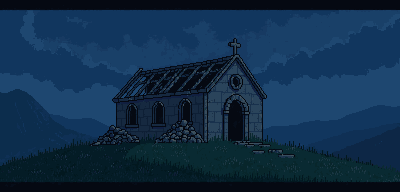
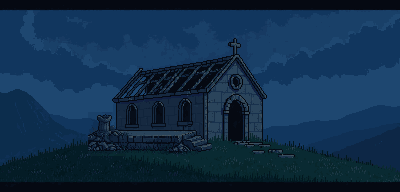
Ground the sphere and protagonist on a progressing altar
- Move the 2× Bênção plaque under the clickable Esfera in the Relicário and restore its pixel-art sphere
- Make the altar Esfera a decorative likeness of the god (no longer clickable)
- Show the follower count in the HUD; drop the protagonist label and the church heading, status and caption
- Repaint the church tiers (PixelLab inpaint) with a dais and an altar that grows each tier, and anchor the sphere and protagonist on them

Changed region(s): [[0.21, 0.5938, 0.54, 0.8125]]

diff --git a/src/styles/art-direction.css b/src/styles/art-direction.css
@@ -73,12 +73,11 @@
 .ascended-monastery { position:absolute; right:15%; top:16%; height:45%; width:auto; image-rendering:pixelated; filter:brightness(.65); z-index:1; }
 /* Church scene: the stage keeps the background's 400×192 grid, so overlays stay pinned to the art.
    Tall phones use the cover scale and are cropped sideways. On short or large windows the stage is smaller than the
-   cover: its scale is capped so that, below the HUD's bottom edge (`--hud-bottom`, measured by the church scene), both
-   (1) the art from y 12 (the tier-3 bell tower's top) down to the Bênção button under the altar (y 133 plus the button's
-   height `--btn-font` + 10px of border and padding, then a 44px footer margin) fits, and (2) the whole band down to
-   y 152 (the front of the yard, plus an 8px margin) fits. The scale never drops below 0.4px per art pixel, a safety net
-   for a world whose container height has not resolved. The backdrop fills the world around the stage. */
-.church-world { container-type:size; background:#1b2a3d; height:max(var(--world-h), var(--world-min)); min-height:0; --hud-bottom:0px; --btn-font:clamp(10px, 4.4cqh, 22px); --art-scale:max(0.4px, min(max(100cqw / 400, 100cqh / 192), calc((100cqh - var(--hud-bottom) - var(--btn-font) - 54px) / 121.4), calc((100cqh - var(--hud-bottom) - 8px) / 140))); --stage-top:max(calc(var(--hud-bottom) - 12 * var(--art-scale)), min(0px, calc(100cqh - 152 * var(--art-scale)))); }
+   cover: its scale is capped so that, below the HUD's bottom edge (`--hud-bottom`, measured by the church scene), the
+   art from y 12 (the tier-3 bell tower's top) down to y 152 (the front of the yard, plus an 8px margin) fits. The scale
+   never drops below 0.4px per art pixel, a safety net for a world whose container height has not resolved.
+   The backdrop fills the world around the stage. */
+.church-world { container-type:size; background:#1b2a3d; height:max(var(--world-h), var(--world-min)); min-height:0; --hud-bottom:0px; --art-scale:max(0.4px, min(max(100cqw / 400, 100cqh / 192), calc((100cqh - var(--hud-bottom) - 8px) / 140))); --stage-top:max(calc(var(--hud-bottom) - 12 * var(--art-scale)), min(0px, calc(100cqh - 152 * var(--art-scale)))); }
 /* Capped stages sit with y 12 at the HUD's bottom edge; uncapped ones (phones) are cropped sky first, so art down to y 152 stays visible. */
 /* The outer art columns (x 0 and 399) are near-white generation artifacts, so the stage is clipped by two art pixels (a fractional scale would otherwise show a sliver of them). */
 .church-stage { position:absolute; left:50%; top:var(--stage-top); width:calc(400 * var(--art-scale)); aspect-ratio:400 / 192; transform:translateX(-50%); clip-path:inset(0 calc(2 * var(--art-scale))); }
@@ -91,35 +90,36 @@
 .church-world[data-church-tier='2'] { --edge-left:linear-gradient(#090c1a 0.52%, #0d0e1e 0.52% 1.56%, #0c1523 1.56% 2.6%, #0d0e1e 2.6% 4.17%, #0c1523 4.17% 5.21%, #183254 5.21% 6.25%, #19365d 6.25% 7.29%, #183254 7.29% 34.38%, #19365d 34.38% 36.98%, #1e3c61 36.98% 47.92%, #183254 47.92% 71.35%, #18314f 71.35% 86.46%, #1b2f3b 86.46% 95.83%, #132c34 95.83%); --edge-right:linear-gradient(#090c1a 5.21%, #183254 5.21% 6.77%, #19365d 6.77% 10.42%, #183254 10.42% 14.06%, #18314f 14.06% 19.27%, #183254 19.27% 31.25%, #19365d 31.25% 32.81%, #1e3c61 32.81% 34.9%, #19365d 34.9% 36.98%, #183254 36.98% 44.27%, #19365d 44.27% 52.6%, #1e3c61 52.6% 55.21%, #19365d 55.21% 58.33%, #183254 58.33% 65.63%, #18314f 65.63% 73.44%, #1b2941 73.44% 89.06%, #1b2f3b 89.06% 92.71%, #132c34 92.71% 94.79%, #090c1a 94.79%); }
 .church-world[data-church-tier='3'] { --edge-left:linear-gradient(#0b0e1d 0.52%, #0f1d2b 0.52% 5.21%, #1c3252 5.21% 34.38%, #1d375c 34.38% 35.42%, #223d62 35.42% 42.71%, #1d375c 42.71% 45.31%, #223d62 45.31% 48.96%, #1d375c 48.96% 50%, #1c3252 50% 85.94%, #202b43 85.94%); --edge-right:linear-gradient(#0b0e1d 5.21%, #1c3252 5.21% 31.25%, #1d375c 31.25% 38.02%, #1c3252 38.02% 47.92%, #1d375c 47.92% 51.04%, #223d62 51.04% 54.69%, #1d375c 54.69% 59.38%, #1c3252 59.38% 73.44%, #202b43 73.44% 91.15%, #182c37 91.15% 94.79%, #0b0e1d 94.79%); }
 .church-background { position:absolute; inset:0; width:100%; height:100%; image-rendering:pixelated; pointer-events:none; }
-.church-sphere { position:absolute; aspect-ratio:1; padding:0; border:0; background:transparent; cursor:pointer; transform:translate(-50%,-50%); z-index:2; transition:filter 120ms var(--ease-out); }
+/* The altar's Esfera is the god's likeness, not a control: Fé is channelled through the Relicário's Esfera, and this one only glows back. */
+/* Each tier's background has its own altar on the sanctuary dais, so the Esfera's centre is set per tier to rest in that altar's
+   cradle: the drawn orb's bottom edge sits 10/32 of the box width below the centre (y 116 on the ruined pillar, y 121 in the
+   tier-1 cradle, y 113.5 in the carved altar that tiers 2 and 3 share). */
+.church-sphere { position:absolute; left:var(--sphere-x); top:var(--sphere-y); aspect-ratio:1; transform:translate(-50%,-50%); z-index:2; pointer-events:none; transition:filter 120ms var(--ease-out); }
 .church-sphere canvas { display:block; width:100%; height:100%; image-rendering:pixelated; pointer-events:none; }
-.church-sphere[data-location='ruins'] { left:29.5%; top:64%; width:4%; filter:brightness(.75) drop-shadow(0 0 6px #e9be72); animation:ruin-glow 3.2s ease-in-out infinite; }
-.church-sphere[data-location='altar'] { left:30.5%; top:63%; width:5%; filter:drop-shadow(0 0 10px #e9be72); }
+.church-sphere[data-location='ruins'] { width:4%; filter:brightness(.75) drop-shadow(0 0 6px #e9be72); animation:ruin-glow 3.2s ease-in-out infinite; }
+.church-sphere[data-location='altar'] { width:5%; filter:drop-shadow(0 0 10px #e9be72); }
+.church-world[data-church-tier='0'] { --sphere-x:26%; --sphere-y:57.81%; }
+.church-world[data-church-tier='1'] { --sphere-x:28.13%; --sphere-y:59.77%; }
+.church-world[data-church-tier='2'] { --sphere-x:28.88%; --sphere-y:55.86%; }
+.church-world[data-church-tier='3'] { --sphere-x:28.88%; --sphere-y:55.86%; }
 .faith-response .church-sphere { filter:brightness(1.35) drop-shadow(0 0 14px #f3d392); }
-.church-sphere:focus-visible { outline:2px solid #edc886; outline-offset:4px; }
-/* The button's left edge: centred under the altar, never past the cropped left edge of the stage on narrow screens.
-   Its right edge is this + 7em; the protagonist's name starts after that (em is the shared `--btn-font`). */
-.church-world { --blessing-left:max(calc(30.5% - 3.5em), calc(50% - 50cqw + 6px)); }
-/* The Bênção button sits at y 133 of 192, 2 art px under the Esfera's bottom edge (y 131), so the two never overlap.
-   The footer draws above the whole stage, so this button's z-index only orders it inside the stage: the stage's scale
-   (`--art-scale`) reserves room for it above the footer, and the footer lets clicks through as a safety net. */
-.church-blessing { position:absolute; left:var(--blessing-left); top:69.5%; z-index:2; overflow:hidden; box-sizing:border-box; width:7em; padding:2px 6px; border:2px solid #8d6c40; border-radius:0; background:#30241b; box-shadow:0 2px #1a120c; color:#c9a874; font:var(--btn-font)/1 var(--font-game); white-space:nowrap; cursor:pointer; transition:filter 120ms var(--ease-out); }
+/* The Bênção button sits in the Relicário under the clickable Esfera, so the boost is triggered where Fé is channelled. */
+/* It hangs like a plaque over the bottom of the Esfera's ring, so it needs no extra height in a short Relicário. */
+.sphere-presentation-area { position:relative; }
+.church-blessing { position:absolute; left:50%; bottom:-8px; z-index:3; transform:translateX(-50%); overflow:hidden; box-sizing:border-box; width:7em; padding:2px 6px; border:2px solid #8d6c40; border-radius:0; background:#30241b; box-shadow:0 2px #1a120c; color:#c9a874; font:18px/1 var(--font-game); white-space:nowrap; cursor:pointer; transition:filter 120ms var(--ease-out); }
 .church-blessing[hidden] { display:none; }
 .church-blessing-fill { position:absolute; inset:0; background:#8c6a36; transform:scaleX(var(--blessing-fill, 0)); transform-origin:left; transition:transform 120ms linear; }
 .church-blessing-label { position:relative; }
 .church-blessing.active { border-color:#c39a58; color:#ffdea0; }
-.faith-response .church-blessing { filter:brightness(1.35) drop-shadow(0 0 6px #f3d392); }
-.church-blessing:active { transform:translateY(1px); box-shadow:0 1px #1a120c; }
+.church-blessing.faith-response { filter:brightness(1.35) drop-shadow(0 0 6px #f3d392); }
+.church-blessing:active { transform:translateX(-50%) translateY(1px); box-shadow:0 1px #1a120c; }
 .church-blessing:focus-visible { outline:2px solid #edc886; outline-offset:3px; }
-/* The protagonist stands in the clear gap between the altar and the yard, mirrored to face the Esfera; feet sit 4px above the 72px canvas bottom.
-   The name is its own element under the feet. */
-.church-protagonist { position:absolute; left:46.5%; bottom:28.5%; height:19%; aspect-ratio:64 / 72; transform:translateX(-50%); z-index:2; pointer-events:none; }
+/* The protagonist stands on the sanctuary dais beside the altar (x 150), mirrored to face the Esfera. Feet sit 4px above the 72px
+   canvas bottom (2 art px at this height), on the dais top at y 137, or y 134 on the lower, ruined dais of tier 0. */
+.church-protagonist { position:absolute; left:37.5%; bottom:27.6%; height:19%; aspect-ratio:64 / 72; transform:translateX(-50%); z-index:2; pointer-events:none; }
+.church-world[data-church-tier='0'] .church-protagonist { bottom:29.17%; }
 .protagonist-viewport { position:absolute; inset:0; overflow:hidden; transform:scaleX(-1); }
 .protagonist-strip { position:absolute; top:0; left:0; display:block; height:100%; width:1600%; max-width:none; image-rendering:pixelated; animation:walk-frames 2400ms steps(16,end) infinite; }
-/* The name sits under the feet, above the yard and props (z 4), so a follower praying beside it never covers it.
-   About centred on the protagonist, but never left of the Bênção button's right edge (`--blessing-left` + 7em) plus a gap;
-   it uses the button's font so the two em units match. */
-.protagonist-label { position:absolute; left:max(calc(46.5% - 3em), calc(var(--blessing-left) + 7.5em)); top:calc(71.5% - 2px); z-index:4; pointer-events:none; color:#e2c084; font:var(--btn-font)/1 var(--font-game); letter-spacing:1px; white-space:nowrap; text-shadow:0 1px #11131a, 0 0 4px #11131a; }
 .church-protagonist[data-look='5'] .protagonist-viewport { filter:drop-shadow(0 0 3px #f3d392aa); }
 .protagonist-strip-outgoing { animation:walk-frames 2400ms steps(16,end) infinite, church-fade-out 900ms var(--ease-out) forwards; }
 .church-protagonist.transforming .protagonist-strip:not(.protagonist-strip-outgoing) { animation:walk-frames 2400ms steps(16,end) infinite, protagonist-fade-in 900ms var(--ease-out) both; }
@@ -226,7 +226,7 @@
 @keyframes pilgrim-sway { 0%,100% { transform:translateX(-3px); } 50% { transform:translateX(3px); } }
 @keyframes ritual-bow { 0%,100% { transform:rotate(0); } 50% { transform:rotate(5deg); } }
 @keyframes recruit-arrival { from { opacity:0; transform:translateX(-24px); } to { opacity:1; transform:translateX(0); } }
-@media (hover:hover) and (pointer:fine) { .divine-sphere-btn:hover { filter:brightness(1.15) drop-shadow(0 0 16px #b8874540); } .church-sphere:hover { filter:brightness(1.2) drop-shadow(0 0 12px #f3d392); } .church-blessing:hover { filter:brightness(1.2); } }
+@media (hover:hover) and (pointer:fine) { .divine-sphere-btn:hover { filter:brightness(1.15) drop-shadow(0 0 16px #b8874540); } .church-blessing:hover { filter:brightness(1.2); } }
 @media (prefers-reduced-motion:reduce) {
   .world-parallax-track,.prophet-sprite,.procession-member,.procession-member img,.walk-strip,.new-recruit,.church-sphere,.church-follower-sprite img,.church-plea { animation:none!important; }
   .church-blessing-fill { transition:none; }

diff --git a/src/ui/ChurchScene.ts b/src/ui/ChurchScene.ts
@@ -1,6 +1,5 @@
 import { GameStateManager } from '../core/GameState.js';
 import { events, GameEvents } from '../core/EventBus.js';
-import { formatNumber } from '../systems/calculations.js';
 import { compareChurchScenes, describeChurchScene, describeProtagonist, type ChurchSceneDescription, type ChurchSnapshot, type ChurchTier, type ProfetaLook, type ProtagonistLook, type RestoredTier } from '../features/church/churchScene.js';
 import { CHURCH_DETAILS, PROFETA_NOTICES, RESTORATION_NOTICES, type ChurchDetail, type ChurchNotice } from '../config/church.js';
 import { isArtReview } from './artReview.js';
@@ -13,13 +12,6 @@ type ArtScene = `tier-${ChurchTier}` | 'procession';
 const PLEA_SECONDS = 15;
 /** A point on the 400×192 stage, as % of its width and height. */
 type StagePoint = [left: number, top: number];
-
-const TIER_TEXT: Record<ChurchTier, { title: string; status: string; caption: string }> = {
-  0: { title: 'A Igreja em Ruínas', status: 'Uma luz fraca entre os escombros', caption: 'Algo ainda brilha onde ninguém reza.' },
-  1: { title: 'O Altar Improvisado', status: 'A Esfera repousa no altar', caption: 'Os escombros foram retirados. O culto tem um lugar.' },
-  2: { title: 'A Capela das Velas', status: 'Velas ardem atrás das janelas', caption: 'O telhado voltou. A chama do Fervor aquece as paredes.' },
-  3: { title: 'O Santuário Restaurado', status: 'Os vitrais brilham na noite', caption: 'O sino chama. Ninguém mais esquece este lugar.' }
-};
 
 /** Where the restoration sparkles land on the 400×192 stage, as % of its width and height. */
 const RESTORED_PARTS: Record<RestoredTier, StagePoint[]> = {
@@ -90,23 +82,21 @@ export class ChurchScene {
   private world = document.getElementById('church-world')!;
   private stage = document.getElementById('church-stage')!;
   private background = document.getElementById('church-background') as HTMLImageElement;
-  private sphere = document.getElementById('church-sphere') as HTMLButtonElement;
+  /** The Esfera on the altar is only the god's likeness; Fé is channelled through the Relicário's Esfera. */
+  private sphere = document.getElementById('church-sphere')!;
   private blessing = document.getElementById('church-blessing') as HTMLButtonElement;
   private blessingLabel = document.getElementById('church-blessing-label')!;
   private protagonist = document.getElementById('church-protagonist')!;
   private protagonistStrip = document.getElementById('church-protagonist-strip') as HTMLImageElement;
-  private protagonistLabel = document.getElementById('church-protagonist-label')!;
 
   constructor(
     private gameState: GameStateManager,
-    onSphereClick: (event: MouseEvent) => void,
     private grantMiracle: (x: number, y: number) => number,
     invokeBlessing: (x: number, y: number) => void,
     private announce: (notice: ChurchNotice, tag: string) => void
   ) {
     paintPixelSphere(this.sphere.querySelector('canvas')!);
     this.buildDetailProps();
-    this.sphere.addEventListener('click', onSphereClick);
     // Native button: Enter and Space arrive here as clicks, so feedback is anchored to the button, not the pointer.
     this.blessing.addEventListener('click', () => {
       const rect = this.blessing.getBoundingClientRect();
@@ -262,7 +252,6 @@ export class ChurchScene {
     if (this.reviewLook !== null) {
       next.protagonist = describeProtagonist(this.reviewLook > 0, this.reviewLook);
     }
-    document.getElementById('church-count')!.textContent = `${formatNumber(snapshot.followers)} fiéis`;
     this.blessing.hidden = !next.blessing.visible;
     this.blessing.style.setProperty('--blessing-fill', String(next.blessing.fill));
     this.blessing.classList.toggle('active', snapshot.blessingSeconds > 0);
@@ -308,11 +297,6 @@ export class ChurchScene {
     }
     this.protagonist.dataset.look = String(next.protagonist.look);
     this.protagonistStrip.src = `/assets/church/protagonist/look-${next.protagonist.look}-idle.png`;
-    this.protagonistLabel.textContent = next.protagonist.label;
-    const text = TIER_TEXT[next.tier];
-    document.getElementById('church-title')!.textContent = text.title;
-    document.getElementById('church-status')!.textContent = text.status;
-    document.getElementById('church-caption')!.textContent = text.caption;
   }
 
   /** Fades the old background out through a dust cloud and sparkles over the parts that were restored. */
@@ -370,8 +354,10 @@ export class ChurchScene {
   private pulse(): void {
     // Frequent clicks retarget one brief response instead of accumulating particles.
     window.clearTimeout(this.pulseTimer);
-    this.world.classList.add('faith-response');
-    this.pulseTimer = window.setTimeout(() => this.world.classList.remove('faith-response'), 120);
+    // The Bênção button lives in the Relicário, outside the world, so it answers on its own.
+    const targets = [this.world, this.blessing];
+    targets.forEach(target => target.classList.add('faith-response'));
+    this.pulseTimer = window.setTimeout(() => targets.forEach(target => target.classList.remove('faith-response')), 120);
   }
 
   private miracle(): void {

diff --git a/index.html b/index.html
@@ -38,6 +38,13 @@
               <span class="res-dash">-</span>
               <span id="faith-per-sec-counter" class="res-rate">0/s</span>
             </div>
+            <div class="resource-divider"></div>
+            <div class="resource-item resource-item-followers">
+              <span class="res-name">FIÉIS:</span>
+              <span id="followers-counter" class="res-num">0</span>
+              <span class="res-dash">-</span>
+              <span class="res-rate">fiéis</span>
+            </div>
             <div class="resource-divider" id="hud-fervor-divider"></div>
             <div class="resource-item resource-item-fervor" id="hud-fervor-item">
               <span class="res-name">FERVOR:</span>
@@ -111,15 +118,11 @@
             <img class="church-background" id="church-background" alt="">
             <canvas class="church-crowd" id="church-crowd" aria-hidden="true" hidden></canvas>
             <div class="church-followers" id="church-followers"></div>
-            <button type="button" class="church-sphere" id="church-sphere" data-location="ruins" aria-label="Tocar a Esfera e gerar Fé"><canvas width="64" height="64"></canvas></button>
-            <div class="church-protagonist" id="church-protagonist" data-look="0"><div class="protagonist-viewport"><img class="protagonist-strip" id="church-protagonist-strip" src="/assets/church/protagonist/look-0-idle.png" alt=""></div></div><span class="protagonist-label" id="church-protagonist-label">O Escolhido</span>
-            <button type="button" class="church-blessing" id="church-blessing" aria-label="Invocar a Bênção: +2 segundos de Fé em dobro" hidden><span class="church-blessing-fill"></span><span class="church-blessing-label" id="church-blessing-label">✦ 2× · 0s</span></button>
+            <div class="church-sphere" id="church-sphere" data-location="ruins" role="img" aria-label="A Esfera, o deus do culto"><canvas width="64" height="64"></canvas></div>
+            <div class="church-protagonist" id="church-protagonist" data-look="0"><div class="protagonist-viewport"><img class="protagonist-strip" id="church-protagonist-strip" src="/assets/church/protagonist/look-0-idle.png" alt=""></div></div>
           </div>
           <div class="world-veil"></div>
-          <div class="world-heading"><span class="world-eyebrow">ERA I · O CHAMADO</span><h1 id="church-title">A Igreja em Ruínas</h1></div>
-          <div class="world-status"><span class="status-light"></span><span id="church-status">Uma luz fraca entre os escombros</span></div>
           <div class="ritual-sigil" aria-hidden="true">◉</div>
-          <div class="world-footer"><span id="church-caption">Algo ainda brilha onde ninguém reza.</span><span id="church-count">0 fiéis</span></div>
         </section>
         <!-- Kept for the future boss battle; mounted only under ?art-review. -->
         <section class="procession-world" id="procession-world" aria-label="A procissão do culto" hidden>
@@ -366,9 +369,10 @@
 
                   <div id="divine-sphere-btn" class="divine-sphere-btn" role="button"
                     aria-label="Tocar a Esfera">
-                    <div class="sphere-inner-pulse"></div>
+                    <canvas class="sphere-pixel-art" width="64" height="64" aria-hidden="true"></canvas>
                   </div>
                 </div>
+                <button type="button" class="church-blessing" id="church-blessing" aria-label="Invocar a Bênção: +2 segundos de Fé em dobro" hidden><span class="church-blessing-fill"></span><span class="church-blessing-label" id="church-blessing-label">✦ 2× · 0s</span></button>
               </div>
             </div>
             <div class="sacred-window-footer"><span>CANALIZAR FÉ</span><p>Clique na Esfera</p></div>

diff --git a/src/features/church/churchScene.ts b/src/features/church/churchScene.ts
@@ -18,7 +18,6 @@ export type SphereLocation = 'ruins' | 'altar';
 /** 0 is O Escolhido; 1–5 are O Profeta at each Encarnação stage. */
 export type ProtagonistLook = 0 | 1 | 2 | 3 | 4 | 5;
 export type ProfetaLook = Exclude<ProtagonistLook, 0>;
-export type ProtagonistLabel = 'O Escolhido' | 'O Profeta';
 /** One drawn look per Encarnação stage; a later stage keeps the last look until it gets art of its own. */
 const LAST_PROFETA_LOOK: ProfetaLook = 5;
 /** 0 is no crowd; each level is one more `CROWD_LEVELS` entry reached. */
@@ -29,8 +28,8 @@ export interface ChurchSceneDescription {
   sphereLocation: SphereLocation;
   /** Props unlocked by the follower count, in threshold order. */
   details: ChurchDetail[];
-  protagonist: { look: ProtagonistLook; label: ProtagonistLabel };
-  /** The Bênção button under the Esfera; `fill` is the stored 2× time as a 0–1 fraction of the cap. */
+  protagonist: { look: ProtagonistLook };
+  /** The Bênção button under the Relicário's Esfera; `fill` is the stored 2× time as a 0–1 fraction of the cap. */
   blessing: { visible: boolean; fill: number };
   /** How many of the church-yard spots hold a follower, filled in `FOLLOWER_SPOTS` order. */
   filledSpots: number;
@@ -63,8 +62,8 @@ export function describeChurchScene(snapshot: ChurchSnapshot): ChurchSceneDescri
 
 /** The stage reads 1 before the Selo too, so the Selo alone decides when O Escolhido becomes O Profeta. */
 export function describeProtagonist(incarnationUnlocked: boolean, incarnationStage: number): ChurchSceneDescription['protagonist'] {
-  if (!incarnationUnlocked) return { look: 0, label: 'O Escolhido' };
-  return { look: Math.min(LAST_PROFETA_LOOK, Math.max(1, Math.floor(incarnationStage))) as ProfetaLook, label: 'O Profeta' };
+  if (!incarnationUnlocked) return { look: 0 };
+  return { look: Math.min(LAST_PROFETA_LOOK, Math.max(1, Math.floor(incarnationStage))) as ProfetaLook };
 }
 
 /** What changed between two descriptions; the renderer turns each change into a transition and notification. */

diff --git a/src/features/church/churchScene.test.ts b/src/features/church/churchScene.test.ts
@@ -119,16 +119,16 @@ describe('church scene description', () => {
 
 describe('protagonist', () => {
   it('is O Escolhido (look 0) before the Selo da Encarnação, even though the Encarnação stage reads 1', () => {
-    expect(describeChurchScene(start).protagonist).toEqual({ look: 0, label: 'O Escolhido' });
+    expect(describeChurchScene(start).protagonist).toEqual({ look: 0 });
   });
 
   it('stays O Escolhido before the Selo whatever the Encarnação stage reads', () => {
-    expect(describeChurchScene({ ...start, incarnationStage: 4 }).protagonist).toEqual({ look: 0, label: 'O Escolhido' });
+    expect(describeChurchScene({ ...start, incarnationStage: 4 }).protagonist).toEqual({ look: 0 });
   });
 
   it.each([1, 2, 3, 4, 5])('is O Profeta with the matching look at Encarnação stage %i once the Selo is broken', stage => {
     expect(describeChurchScene({ ...withSelos(true, false, false), incarnationStage: stage }).protagonist)
-      .toEqual({ look: stage, label: 'O Profeta' });
+      .toEqual({ look: stage });
   });
 });
 

diff --git a/src/features/church/churchConfig.ts b/src/features/church/churchConfig.ts
@@ -40,13 +40,13 @@ export const FOLLOWER_SPOTS: readonly FollowerSpot[] = [
 ];
 
 /**
- * Where the follower who brings a miracle request prays: right of the Bênção button under the altar and
- * left of the protagonist, so they cover neither. They face the altar.
+ * Where the follower who brings a miracle request prays: up the steps on the sanctuary dais, right of the protagonist
+ * (who stands at x 150), so the walk from the yard never crosses them. They face the altar.
  */
-export const ALTAR_STAND: YardPoint = { x: 171, feet: 146 };
+export const ALTAR_STAND: YardPoint = { x: 186, feet: 137 };
 
-/** Everyone in the yard, and the crowd, faces this line through the altar: the Esfera's x when it sits on the altar. */
-export const ALTAR_X = 122;
+/** Everyone in the yard, and the crowd, faces this line through the altar: about the Esfera's x in the altar cradles. */
+export const ALTAR_X = 110;
 
 /**
  * Each crowd level beyond 0: the follower count that reaches it, and how many silhouettes it draws.

diff --git a/src/features/sphere/SphereController.ts b/src/features/sphere/SphereController.ts
@@ -4,6 +4,7 @@ import { NotificationManager } from '../../systems/notifications.js';
 import { formatNumber } from '../../systems/calculations.js';
 import { BLESSING_SECONDS_PER_PRESS } from '../../config/incarnation.js';
 import { events, GameEvents } from '../../core/EventBus.js';
+import { paintPixelSphere } from '../../ui/pixelSphere.js';
 
 export interface SphereControllerOptions {
   gameState: GameStateManager;
@@ -34,6 +35,8 @@ export class SphereController {
 
   private initElements(): void {
     this.divineSphereBtn = document.getElementById('divine-sphere-btn');
+    const sphereArt = this.divineSphereBtn?.querySelector<HTMLCanvasElement>('canvas');
+    if (sphereArt) paintPixelSphere(sphereArt);
     this.satelliteNodes = document.querySelectorAll<HTMLElement>('.sphere-satellite-node');
   }
 

diff --git a/src/styles/game-hud.css b/src/styles/game-hud.css
@@ -16,6 +16,7 @@ html,body { background:#211a18; }
 .res-name::before { content:''; display:block; width:34px; height:34px; background:url('/assets/hud/faith.svg') center / contain no-repeat; image-rendering:pixelated; }
 .resource-item-fervor .res-name::before { background-image:url('/assets/hud/fervor.svg'); }
 .resource-item-relic .res-name::before { background-image:url('/assets/hud/relic.svg'); }
+.resource-item-followers .res-name::before { background-image:url('/assets/procession/follower-0.png'); }
 .res-num { font:32px/.9 var(--font-game); color:#ffe2a2; text-shadow:2px 2px #120d0c; font-variant-numeric:tabular-nums; }
 .res-rate { grid-column:2; font:18px/1 var(--font-game); color:#bba780; }
 .resource-item-fervor .res-num { color:#f2a16c; }

diff --git a/src/main.ts b/src/main.ts
@@ -226,7 +226,6 @@ class AppManager {
     if (isArtReview) this.procession = new ProcessionScene(this.gameState, (x, y) => this.sphere.grantMiracle(x, y));
     this.church = new ChurchScene(
       this.gameState,
-      (e) => this.sphere.onSphereClicked(e),
       (x, y) => this.sphere.grantMiracle(x, y),
       (x, y) => this.sphere.invokeBlessing(x, y),
       (notice, tag) => this.notifications.showCustomPopup(notice.title, notice.desc, notice.icon, tag)

diff --git a/GLOSSARY.md b/GLOSSARY.md
@@ -13,7 +13,7 @@ How restored the church is on the main screen, from 0 to 3: 0 is the ruin, 1 fol
 A small prop that appears at the church between Church tiers as the follower count grows: torches, pews, a garden, a cult banner and a statue of the Esfera. Each unlocks at its own follower threshold and stays once unlocked; unlocking one plays a short transition and a notification. Derived from game state; never saved.
 
 **Bênção**
-The button under the Esfera, shown once the Selo da Encarnação is broken. Each press (click, Enter or Space) adds 2 s of doubled Fé, up to 60 s stored; the stored time drains in real time and the button fills to show how much is left.
+The button hanging under the clickable Esfera in the Relicário, shown once the Selo da Encarnação is broken. Each press (click, Enter or Space) adds 2 s of doubled Fé, up to 60 s stored; the stored time drains in real time and the button fills to show how much is left.
 
 **Church yard**
 The ground in front of the church door where converted followers stand. The Crowd gathers behind it and the Details line its front.
